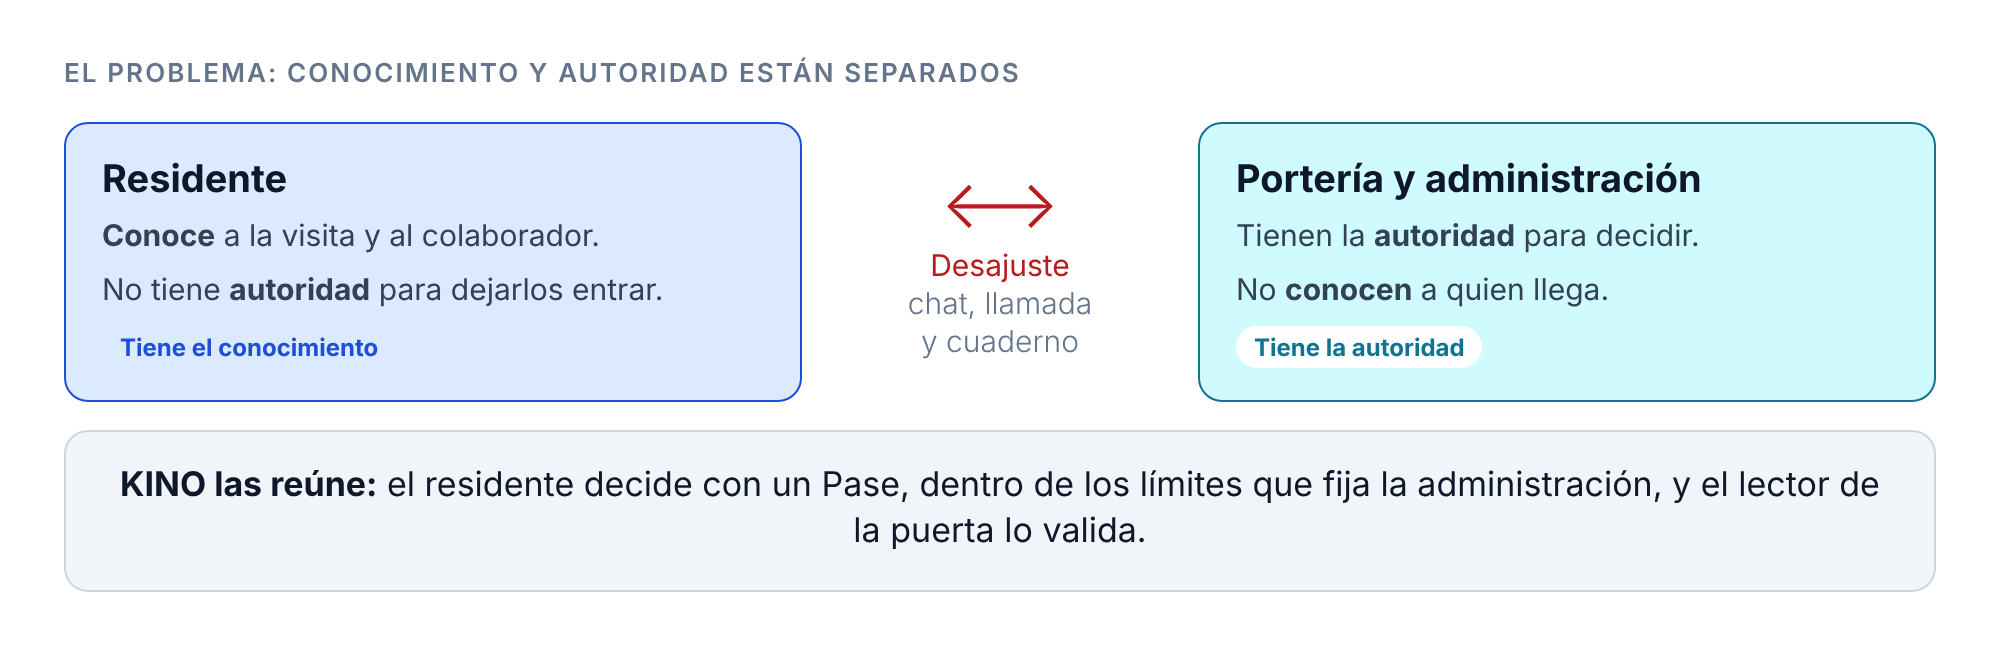
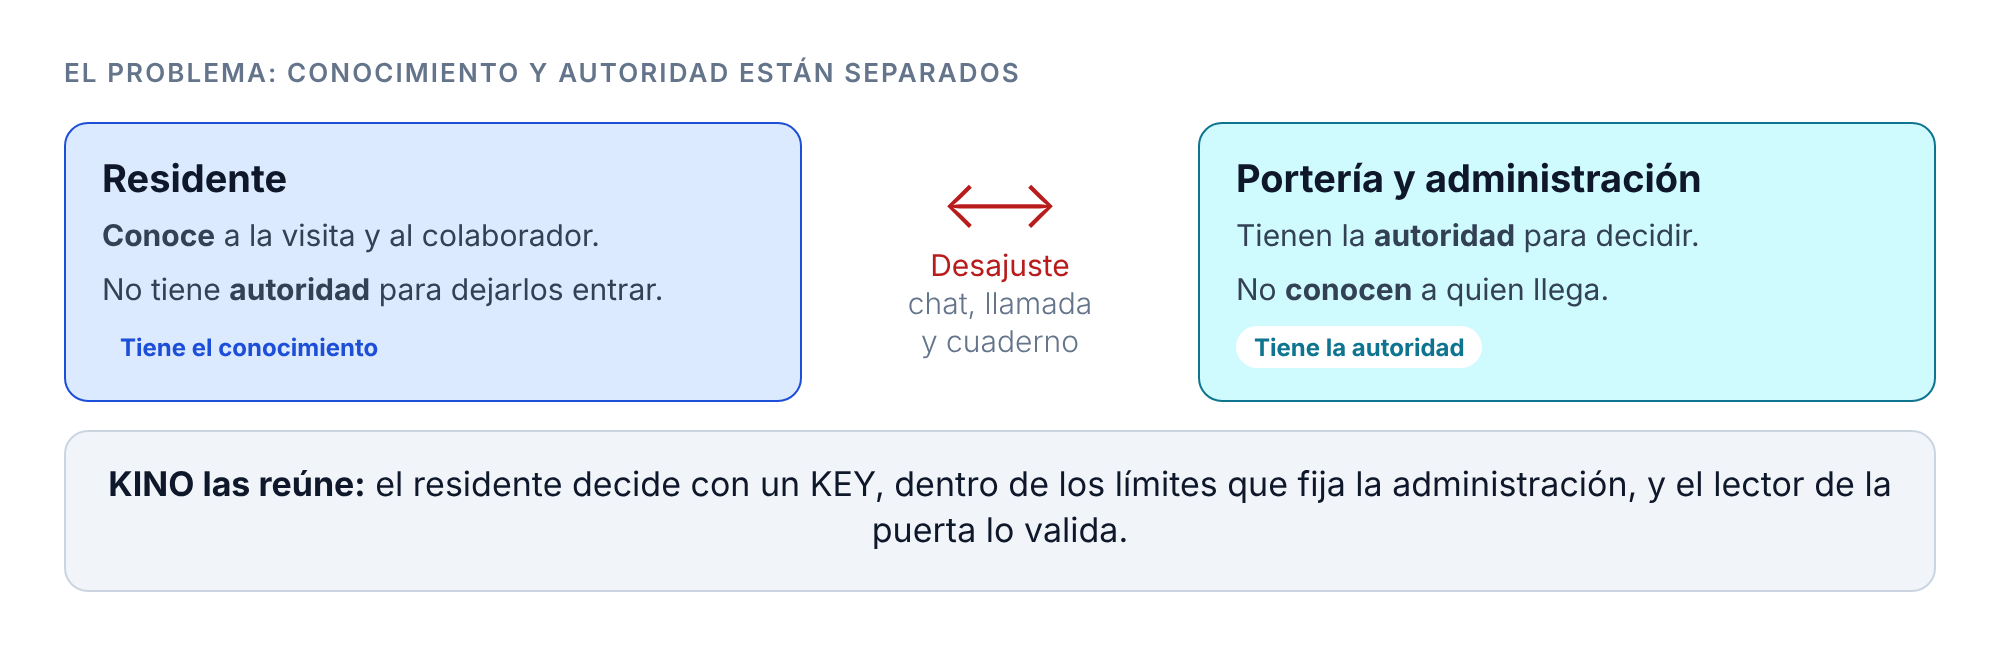
Entrega EAFIT: «Pase» pasa a «KEY» en texto y figuras, pedido de Alejandro
Claude-Session: https://claude.ai/code/session_012DQwra82ZAV2m5H2koZjXH

Changed region(s): [[0.031, 0.7077, 0.961, 0.7692], [0.403, 0.8, 0.589, 0.8615]]

diff --git a/eafit/2026-11-roadmap-estrategia/entrega/figuras/fuente-figuras.html b/eafit/2026-11-roadmap-estrategia/entrega/figuras/fuente-figuras.html
@@ -42,7 +42,7 @@ svg text{font-family:Inter,sans-serif}
   <div class="card teal"><h4>Portería y administración</h4><p>Tienen la <b>autoridad</b> para decidir.</p><p style="margin-top:6px">No <b>conocen</b> a quien llega.</p><span class="tag" style="background:#fff;color:var(--ac2)">Tiene la autoridad</span></div>
  </div>
  <div class="row" style="margin-top:14px">
-  <div class="card soft" style="text-align:center"><p style="font-size:17px;color:var(--ink)"><b>KINO las reúne:</b> el residente decide con un Pase, dentro de los límites que fija la administración, y el lector de la puerta lo valida.</p></div>
+  <div class="card soft" style="text-align:center"><p style="font-size:17px;color:var(--ink)"><b>KINO las reúne:</b> el residente decide con un KEY, dentro de los límites que fija la administración, y el lector de la puerta lo valida.</p></div>
  </div>
 </div>
 
@@ -51,8 +51,8 @@ svg text{font-family:Inter,sans-serif}
  <div class="t">Tres diferencias que funcionan juntas</div>
  <div style="background:var(--ink);color:#fff;border-radius:12px 12px 0 0;padding:14px;text-align:center;font-size:19px;font-weight:700">Diferencia de KINO frente a otras plataformas</div>
  <div class="row" style="margin-top:12px">
-  <div class="card"><div class="num">1</div><h4>Integración con el hardware</h4><p>Conecta lo que el conjunto ya pagó: placa, rostro y talanquera sobre HikCentral.</p><span class="tag tw">Por probar en el Pase temporal</span></div>
-  <div class="card"><div class="num">2</div><h4>Pase sin cuenta</h4><p>La visita entra con QR, placa o código de un solo uso. No instala nada.</p><span class="tag tb">Diseñado</span></div>
+  <div class="card"><div class="num">1</div><h4>Integración con el hardware</h4><p>Conecta lo que el conjunto ya pagó: placa, rostro y talanquera sobre HikCentral.</p><span class="tag tw">Por probar en el KEY temporal</span></div>
+  <div class="card"><div class="num">2</div><h4>KEY sin cuenta</h4><p>La visita entra con QR, placa o código de un solo uso. No instala nada.</p><span class="tag tb">Diseñado</span></div>
   <div class="card"><div class="num">3</div><h4>Autoridad acotada</h4><p>El residente decide. La administración fija cupos, duración y franjas.</p><span class="tag tb">Diseñado</span></div>
  </div>
  <div style="height:10px;background:var(--line);border-radius:0 0 12px 12px;margin-top:12px"></div>
@@ -77,7 +77,7 @@ svg text{font-family:Inter,sans-serif}
 
 <!-- 5 RECORRIDO -->
 <div class="fig" id="f05">
- <div class="t">Recorrido del Pase, de la casa a la puerta</div>
+ <div class="t">Recorrido del KEY, de la casa a la puerta</div>
  <svg id="sv05" width="936" height="430"></svg>
 </div>
 
@@ -164,7 +164,7 @@ svg text{font-family:Inter,sans-serif}
  <div class="t">Cadena de medición: cada área alimenta a la siguiente</div>
  <div class="row">
   <div class="card blue"><h4>Marca</h4><p>Tráfico web<br>Conversión a demostración<br>Comunidad en redes</p></div><div class="arrow">→</div>
-  <div class="card teal"><h4>Piloto</h4><p>Adopción<br>Ingresos digitales<br>Pases de colaborador<br>Tiempo en portería<br>Satisfacción</p></div><div class="arrow">→</div>
+  <div class="card teal"><h4>Piloto</h4><p>Adopción<br>Ingresos digitales<br>KEYs de colaborador<br>Tiempo en portería<br>Satisfacción</p></div><div class="arrow">→</div>
   <div class="card soft"><h4>Técnica</h4><p>Errores de sincronización</p></div><div class="arrow">→</div>
   <div class="card" style="border-color:var(--ink)"><h4>Negocio</h4><p>Embudo comercial<br>Tasa de cierre<br>Ingreso recurrente<br>Costo de adquisición<br>Recuperación de la implementación</p></div>
  </div>
@@ -190,10 +190,10 @@ const lanes=['Residente','Visita o colaborador','Lector de la puerta','Portería
 lanes.forEach((l,i)=>{const y=top+i*lh;el(s,'rect',{x:0,y,width:936,height:lh-6,rx:10,fill:i%2?'#fff':C.soft,stroke:C.line});tx(s,14,y+lh/2,l,{fw:700,fill:C.ink,b:'middle',fs:15})});
 const box=(lane,x,w,t1,t2,fill,stroke)=>{const y=top+lane*lh+10;el(s,'rect',{x,y,width:w,height:lh-26,rx:8,fill:fill||'#fff',stroke:stroke||C.ac,'stroke-width':1.6});tx(s,x+w/2,y+22,t1,{a:'middle',fw:700,fill:C.ink,fs:14});if(t2)tx(s,x+w/2,y+41,t2,{a:'middle',fs:12.5,fill:C.mut});return {x,y,w,h:lh-26}};
 const b1=box(0,160,140,'Entra a la app','código por WhatsApp');
-const b2=box(0,320,165,'Crea el Pase','autor, motivo, vigencia');
+const b2=box(0,320,165,'Crea el KEY','autor, motivo, vigencia');
 const b3=box(0,505,150,'Lo comparte','por su WhatsApp');
 const b4=box(1,505,150,'Llega','QR, placa o código',C.acs);
-const b5=box(2,690,125,'Valida','¿Pase vigente?',C.ac2s,C.ac2);
+const b5=box(2,690,125,'Valida','¿KEY vigente?',C.ac2s,C.ac2);
 const b6=box(2,840,84,'Entra','evento',C.oks,C.ok);
 const b7=box(3,690,190,'Atiende la excepción','llama al residente',C.was,C.wa);
 const b8=box(4,320,165,'Fija los límites','cupos, duración, franjas',C.soft,C.mut);
@@ -206,7 +206,7 @@ el(s,'path',{d:`M${b4.x+b4.w},${cy(b4)} L${b5.x+b5.w/2},${cy(b4)} L${b5.x+b5.w/2
 ar(b5.x+b5.w,cy(b5),b6.x-2,cy(b6),C.ok);tx(s,b5.x+b5.w+4,cy(b5)-8,'sí',{fs:12,fill:C.ok,fw:700});
 ar(b5.x+b5.w/2,b5.y+b5.h,b5.x+b5.w/2,b7.y-2,C.wa);tx(s,b5.x+b5.w/2+6,b5.y+b5.h+16,'no',{fs:12,fill:C.wa,fw:700});
 el(s,'path',{d:`M${b8.x+b8.w/2},${b8.y} L${b8.x+b8.w/2},${b2.y+b2.h+2}`,stroke:C.mut,'stroke-width':1.5,fill:'none','marker-end':'url(#a5)','stroke-dasharray':'5 4'});
-tx(s,b8.x+b8.w/2+8,b8.y-120,'el Pase debe caber',{fs:12,fill:C.mut});tx(s,b8.x+b8.w/2+8,b8.y-104,'en los límites',{fs:12,fill:C.mut});
+tx(s,b8.x+b8.w/2+8,b8.y-120,'el KEY debe caber',{fs:12,fill:C.mut});tx(s,b8.x+b8.w/2+8,b8.y-104,'en los límites',{fs:12,fill:C.mut});
 el(s,'path',{d:`M${b6.x+b6.w/2},${b6.y+b6.h} L${b6.x+b6.w/2},${b9.y-2}`,stroke:C.mut,'stroke-width':1.5,fill:'none','marker-end':'url(#a5)','stroke-dasharray':'5 4'});
 })();
 
@@ -263,14 +263,14 @@ tx(s,L+W,B+48,'Conjuntos →',{a:'end',fs:13,fill:C.mut});tx(s,L-10,B-H-10,'Etap
 const pts=[[L+90,B-30,'Acceso, hoy',C.ok],[L+360,B-96,'Portal de administración y residentes',C.ac],[L+460,B-162,'Paquetería, reservas y pagos',C.ac],[L+560,B-228,'Seguridad y bienestar',C.ac2],[L+630,B-294,'Escala comercial',C.ac2]];
 let d=`M${pts[0][0]},${pts[0][1]}`;pts.slice(1).forEach(p=>d+=` L${p[0]},${p[1]}`);el(s,'path',{d,stroke:C.line,'stroke-width':3,fill:'none','stroke-dasharray':'6 5'});
 pts.forEach((p,i)=>{el(s,'circle',{cx:p[0],cy:p[1],r:11,fill:p[3]});tx(s,p[0]+(i==4?-18:18),p[1]+5,p[2],{fw:700,fill:C.ink,fs:14.5,a:i==4?'end':'start'})});
-const gates=[[L+215,B-62,'Pase temporal probado'],[L+395,B-140,'Etapa 01 estable'],[L+500,B-206,'Clientes que pagan el módulo'],[L+520,B-270,'Revisión legal']];gates.forEach(g=>{tx(s,g[0],g[1],'◆ '+g[2],{fs:12,fill:C.wa,fw:600})});
+const gates=[[L+215,B-62,'KEY temporal probado'],[L+395,B-140,'Etapa 01 estable'],[L+500,B-206,'Clientes que pagan el módulo'],[L+520,B-270,'Revisión legal']];gates.forEach(g=>{tx(s,g[0],g[1],'◆ '+g[2],{fs:12,fill:C.wa,fw:600})});
 tx(s,L,B+70,'◆ Condición para avanzar. Sin la condición, el paso no empieza.',{fs:13,fill:C.wa});})();
 
 // 13 gantt
 (()=>{const s=document.getElementById('sv13');const ms=['nov','dic','ene','feb','mar','abr','may','jun','jul','ago','sep','oct','nov','dic'];const L=230,T=48,cw=49,rh=30;
 tx(s,L+cw,16,'2026',{a:'middle',fw:700,fill:C.ink,fs:13});tx(s,L+2*cw+6*cw,16,'2027',{a:'middle',fw:700,fill:C.ink,fs:13});el(s,'line',{x1:L+2*cw,y1:4,x2:L+2*cw,y2:T+rh*13+10,stroke:C.ink,'stroke-width':1});
 ms.forEach((m,i)=>{tx(s,L+i*cw+cw/2,38,m,{a:'middle',fs:12.5,fill:C.mut});if(i%2==0)el(s,'rect',{x:L+i*cw,y:T,width:cw,height:rh*13,fill:C.soft})});
-const R=[['Fase 3 · Piloto',0,5,C.ok,1],['Ingreso por WhatsApp',0,2,C.ok,0],['Pase temporal',1,4,C.ok,0],['Pase de colaborador',2,4,C.ok,0],['Fase 4 · Modelo y precio',1,5,C.ac,1],['Entrevistas a administradores',1,3,C.ac,0],['Fase 5 · Lanzamiento',0,1,C.ac2,1],['Caso del piloto',5,6,C.ac2,0],['Reparar Refugio Campestre',4,8,C.wa,0],['Fase 6 · Escalamiento',6,14,C.ink,1],['Venta a conjuntos vecinos',8,14,C.ink,0],['Fase 7 · Legal',0,5,C.mut,1]];
+const R=[['Fase 3 · Piloto',0,5,C.ok,1],['Ingreso por WhatsApp',0,2,C.ok,0],['KEY temporal',1,4,C.ok,0],['KEY de colaborador',2,4,C.ok,0],['Fase 4 · Modelo y precio',1,5,C.ac,1],['Entrevistas a administradores',1,3,C.ac,0],['Fase 5 · Lanzamiento',0,1,C.ac2,1],['Caso del piloto',5,6,C.ac2,0],['Reparar Refugio Campestre',4,8,C.wa,0],['Fase 6 · Escalamiento',6,14,C.ink,1],['Venta a conjuntos vecinos',8,14,C.ink,0],['Fase 7 · Legal',0,5,C.mut,1]];
 R.forEach((r,i)=>{const y=T+i*rh+6;tx(s,L-12,y+rh/2-5,r[0],{a:'end',b:'middle',fs:13.5,fw:r[4]?700:400,fill:r[4]?C.ink:C.txt});el(s,'rect',{x:L+r[1]*cw+2,y,width:(r[2]-r[1])*cw-4,height:rh-12,rx:5,fill:r[3],opacity:r[4]?1:.55})});
 const H=[['H1',0.5],['H2',4.5],['H3',5.5],['H4',8.5],['H5',13.5]];const hy=T+12*rh+16;tx(s,L-12,hy,'Hitos',{a:'end',b:'middle',fw:700,fill:C.ink,fs:13.5});
 H.forEach(h=>{const x=L+h[1]*cw;el(s,'path',{d:`M${x},${hy-10} L${x+10},${hy} L${x},${hy+10} L${x-10},${hy} z`,fill:h[0]=='H1'?C.ok:C.wa});tx(s,x,hy+28,h[0],{a:'middle',fw:700,fill:C.ink,fs:13})});

diff --git a/eafit/2026-11-roadmap-estrategia/entrega/KINO_Roadmap-estrategia-presupuesto.md b/eafit/2026-11-roadmap-estrategia/entrega/KINO_Roadmap-estrategia-presupuesto.md
@@ -43,10 +43,10 @@ Cada actor gana algo distinto. El residente gana control; la portería, tiempo; 
 
 | Actor | Hoy | Con KINO |
 |---|---|---|
-| Residente | Llama a portería o manda un chat | Prepara un Pase para su visita o su colaborador, dentro de los límites de la administración |
-| Visita | Espera mientras portería llama a la casa | Recibe el Pase sin crear una cuenta: QR, placa o código de un solo uso |
-| Colaborador (empleada, jardinero, técnico) | Entra por costumbre o por llamada, cada día | Recibe un Pase con vigencia y franja horaria. Es el ingreso más frecuente |
-| Portería | Llama, anota y decide sin saber | Atiende solo las excepciones. El lector de la puerta valida el Pase |
+| Residente | Llama a portería o manda un chat | Prepara un KEY para su visita o su colaborador, dentro de los límites de la administración |
+| Visita | Espera mientras portería llama a la casa | Recibe el KEY sin crear una cuenta: QR, placa o código de un solo uso |
+| Colaborador (empleada, jardinero, técnico) | Entra por costumbre o por llamada, cada día | Recibe un KEY con vigencia y franja horaria. Es el ingreso más frecuente |
+| Portería | Llama, anota y decide sin saber | Atiende solo las excepciones. El lector de la puerta valida el KEY |
 | Administración | Da de alta personas una por una y ve poco | Fija cupos, duración y franjas. Ve autor, motivo y vigencia de cada ingreso |
 | Consejo de administración | Recibe quejas sin datos | Recibe un informe: quién entró, cuándo y con autorización de quién (inferido) |
 
@@ -56,7 +56,7 @@ La autonomía del residente no diferencia a KINO: otras plataformas, como Neivor
 
 ![Figura 3. Las tres diferencias de KINO.](figuras/f03.png){width=100%}
 
-> **Riesgo.** La integración con el hardware todavía no está probada para el Pase temporal. En Refugio Campestre, 0 de 312 usuarios están sincronizados con HikCentral. Los 711 errores de sincronización vienen del campo de correo obligatorio [1]. Mientras esta diferencia no esté probada, KINO no la vende como un hecho.
+> **Riesgo.** La integración con el hardware todavía no está probada para el KEY temporal. En Refugio Campestre, 0 de 312 usuarios están sincronizados con HikCentral. Los 711 errores de sincronización vienen del campo de correo obligatorio [1]. Mientras esta diferencia no esté probada, KINO no la vende como un hecho.
 
 ## 1.4 Qué compra el conjunto
 
@@ -64,19 +64,19 @@ El conjunto no compra solo una app. Compra un servicio de tres partes, con cinco
 
 ![Figura 4. El servicio de KINO y sus cinco momentos de acompañamiento.](figuras/f04.png){width=100%}
 
-## 1.5 Recorrido del Pase
+## 1.5 Recorrido del KEY
 
 El recorrido muestra quién hace qué, desde que el residente abre la app hasta que la visita cruza la puerta.
 
-![Figura 5. Recorrido del Pase por actor.](figuras/f05.png){width=100%}
+![Figura 5. Recorrido del KEY por actor.](figuras/f05.png){width=100%}
 
 | Actor | Paso | Pantalla | Regla de negocio | Dato que se guarda |
 |---|---|---|---|---|
 | Residente | Entra a la app | Ingreso con código por WhatsApp | Teléfono obligatorio y único | Sesión, teléfono |
-| Residente | Crea el Pase | Acceso previsto | Debe caber en el cupo, la duración y la franja de la administración | Autor, motivo, vigencia, modo |
-| Residente | Comparte el Pase | Compartir | La visita no crea cuenta | Envío |
+| Residente | Crea el KEY | Acceso previsto | Debe caber en el cupo, la duración y la franja de la administración | Autor, motivo, vigencia, modo |
+| Residente | Comparte el KEY | Compartir | La visita no crea cuenta | Envío |
 | Visita o colaborador | Llega a la puerta | QR, placa o código | El lector valida, no el vigilante | Evento del lector |
-| Portería | Atiende la excepción | Panel de portería | Sin Pase válido, se llama al residente | Excepción manual |
+| Portería | Atiende la excepción | Panel de portería | Sin KEY válido, se llama al residente | Excepción manual |
 | Administración | Revisa | Bitácora | Nadie edita un registro | Historial |
 
 > **Brecha.** La app publicada hoy pide correo, contraseña o cuenta de Google. El recorrido pide código por WhatsApp. El roadmap incluye este cambio (capítulo 4).
@@ -145,7 +145,7 @@ El equipo evaluó seis formas de cobrar. La figura 9 las ubica por rentabilidad 
 
 Para el modelo D, la pasarela Wompi cobra 2,65 % + $700 + IVA en pagos en línea y 1 % + IVA en pagos con QR [16].
 
-**Descartados.** Cobrar a la visita (recibe el Pase sin cuenta). Cobrar al residente (solo compra la administración). Marca blanca (KINO mantiene su marca). Vender datos de ingresos (Ley 1581 de 2012 [17]).
+**Descartados.** Cobrar a la visita (recibe el KEY sin cuenta). Cobrar al residente (solo compra la administración). Marca blanca (KINO mantiene su marca). Vender datos de ingresos (Ley 1581 de 2012 [17]).
 
 > **Modelo elegido.** B + E desde el primer conjunto, y D desde la etapa 03 de producto.
 
@@ -169,7 +169,7 @@ Por ahora, KINO iguala el precio de su competidor directo, Unita: $1.550.000 al 
 
 | Paso | Condición para empezar |
 |---|---|
-| De 1 a 2 conjuntos | El Pase temporal genera el evento del lector en Monte Sereno |
+| De 1 a 2 conjuntos | El KEY temporal genera el evento del lector en Monte Sereno |
 | De 2 a 10 conjuntos | Precio probado y costo de implementación medido en 2 conjuntos |
 | Etapa 02 | Etapa 01 estable: errores de sincronización por debajo de un umbral por fijar |
 | Etapa 03 | Clientes que pidan el módulo y paguen por él |
@@ -205,7 +205,7 @@ Fuente: [5] [6].
 | Hito | Fecha | Se cumple cuando | Estado |
 |---|---|---|---|
 | H1 · soykino.com | nov 2026 | Sitio en línea con HTTPS y correo | Cumplido |
-| H2 · Cierre de la beta | mar 2027 | Ingreso por WhatsApp, Pase temporal con evento del lector y KPI medidos cada semana | Por cumplir |
+| H2 · Cierre de la beta | mar 2027 | Ingreso por WhatsApp, KEY temporal con evento del lector y KPI medidos cada semana | Por cumplir |
 | H3 · Informe del piloto | abr 2027 | Resultados medidos y caso publicado | Por cumplir |
 | H4 · Refugio Campestre | jul 2027 | Sincronización reparada y Refugio pagando | Por cumplir |
 | H5 · Nuevos conjuntos | dic 2027 | Al menos un conjunto nuevo firmado | Por cumplir |
@@ -218,8 +218,8 @@ Fechas propuestas a partir del plan operativo del 28 de octubre de 2026 [6].
 |---|---|---|
 | Ingreso con código por WhatsApp | La app publicada pide correo y contraseña | Alejandro, Manuel |
 | Quitar el correo obligatorio | Causa los 711 errores de sincronización [1] | Alejandro, Daniel |
-| Pase temporal con evento del lector | Sin esto no se prueba la diferencia | Alejandro, Daniel |
-| Pase de colaborador con franja | Es el ingreso más frecuente | Alejandro |
+| KEY temporal con evento del lector | Sin esto no se prueba la diferencia | Alejandro, Daniel |
+| KEY de colaborador con franja | Es el ingreso más frecuente | Alejandro |
 | Registro validado contra la cédula | El administrador ya no aprueba registros | Alejandro |
 | Reparar la sincronización en Refugio Campestre | Segundo cliente y prueba de la integración | Daniel, Manuel |
 | Actualizar la versión de MySQL | Ahorra USD 144 al mes, el 41 % del costo de AWS (capítulo 5) | Alejandro, Manuel |
@@ -278,7 +278,7 @@ Fuente: [8]. Incluye producción y pruebas.
 | Mantenimiento técnico e integración: 16 h × $100.000 | 1.600.000 | No, socios | [8] |
 | Coordinación y seguimiento: 4 h × $80.000 | 320.000 | No, socios | [8] |
 
-**WhatsApp (inferido).** 500 casas × 2 ingresos a la app al mes = 1.000 mensajes. A USD 0,001 por mensaje, son USD 1 al mes. El residente comparte el Pase desde su propio WhatsApp; ese envío no le cuesta a KINO.
+**WhatsApp (inferido).** 500 casas × 2 ingresos a la app al mes = 1.000 mensajes. A USD 0,001 por mensaje, son USD 1 al mes. El residente comparte el KEY desde su propio WhatsApp; ese envío no le cuesta a KINO.
 
 **Capacidad.** 40 horas al mes, en horario hábil. No incluye atención 24 horas [8].
 
@@ -391,8 +391,8 @@ No hay líneas base todavía. Cada indicador dice cómo se mide y una meta inici
 | Marca | Conversión a demostración | Solicitudes ÷ usuarios únicos | 3 % en 90 días |
 | Marca | Comunidad en redes | Seguidores y publicaciones al mes | 150 seguidores y 4 publicaciones al mes a 90 días |
 | Piloto | Adopción | Casas con un residente activo ÷ casas del padrón | 25 % a 60 días; 50 % a 120 días |
-| Piloto | Ingresos digitales | Se reporta en tres cifras: placas sincronizadas, excepciones manuales y Pases confirmados por el lector | Línea base en el mes 1 |
-| Piloto | Pases de colaborador | Pases de colaborador ÷ Pases emitidos | Línea base en el mes 1 |
+| Piloto | Ingresos digitales | Se reporta en tres cifras: placas sincronizadas, excepciones manuales y KEYs confirmados por el lector | Línea base en el mes 1 |
+| Piloto | KEYs de colaborador | KEYs de colaborador ÷ KEYs emitidos | Línea base en el mes 1 |
 | Piloto | Tiempo en portería | Mediana entre la llegada y el registro de entrada | ≤ 45 segundos |
 | Piloto | Satisfacción | NPS de residentes; CSAT de portería y administración (1 a 5) | NPS ≥ 30; CSAT ≥ 4,0 |
 | Técnica | Errores de sincronización | Errores por semana | Umbral para pasar a la etapa 02 |
